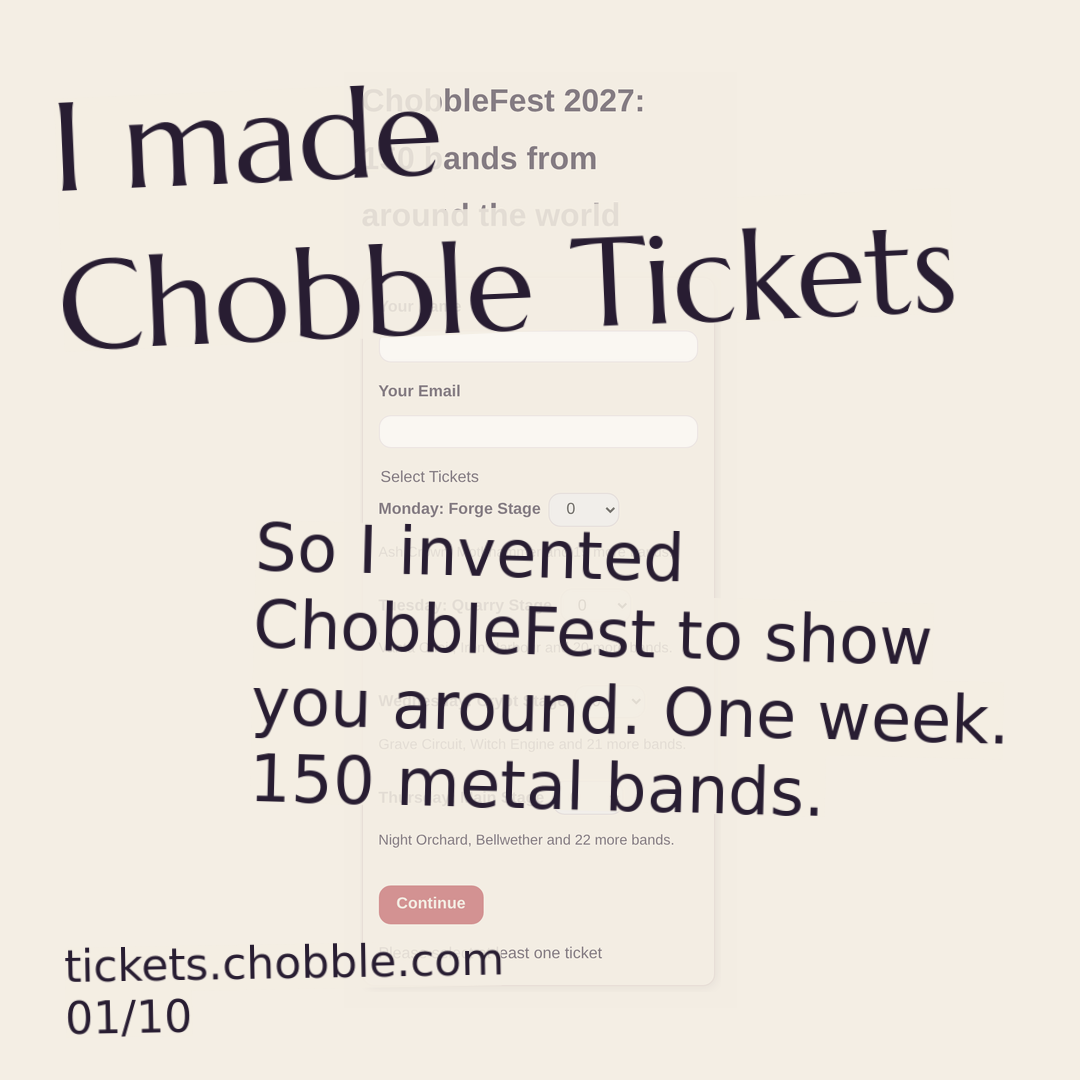
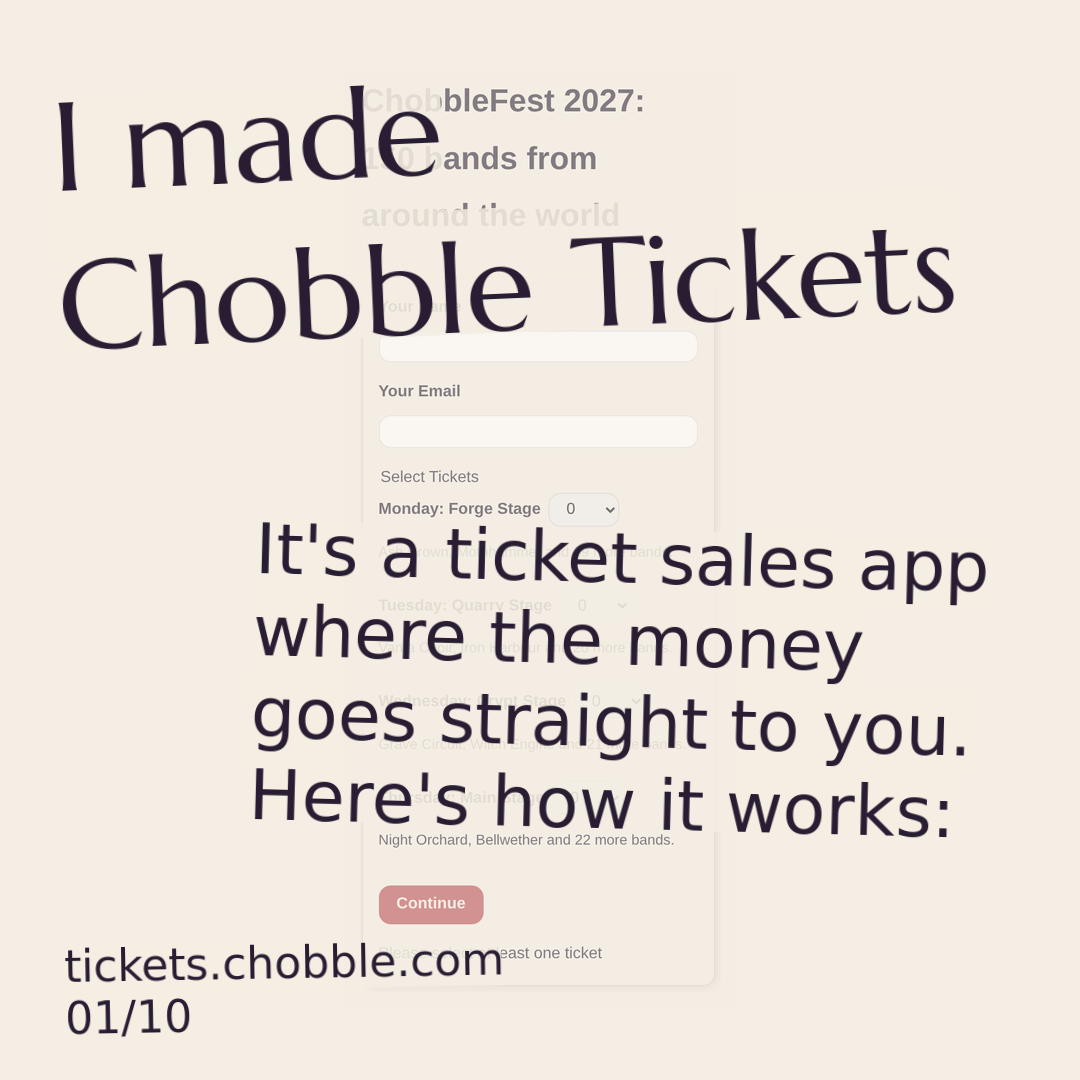
Better images

Changed region(s): [[0.2139, 0.4583, 0.9167, 0.7944]]

diff --git a/scripts/chobblefest-slides.js b/scripts/chobblefest-slides.js
@@ -1,28 +1,28 @@
 export const CHOBBLEFEST_SLIDES = [
   {
-    body: "So I invented ChobbleFest to show you around. One week. 150 metal bands.",
+    body: "It's a ticket sales app where the money goes straight to you. Here's how it works:",
     heading: "I made Chobble Tickets",
     palette: ["#f4eee4", "#281d32", "#b8474f", "#7e5367"],
     slug: "welcome",
     source: "chobblefest-welcome",
   },
   {
-    body: "Every day, stage and pass gets its own listing. I can group all 150 bands without losing track.",
-    heading: "Build the whole week",
+    body: "Every day, stage, pass, whatever, gets its own listing. You can group listings however suits your ops.",
+    heading: "Set up your events",
     palette: ["#252630", "#f5eee6", "#d47a58", "#aaa2b6"],
     slug: "programme",
     source: "chobblefest-programme",
   },
   {
-    body: "Day passes. Week passes. Camping. Extras. Visitors can buy it all in one checkout.",
-    heading: "Sell the right tickets",
+    body: "Visitors can buy day passes, week passes, camping, extras, etc - all in one checkout.",
+    heading: "Sell them together (or not)",
     palette: ["#e8dfca", "#2c352e", "#a4473e", "#66745e"],
     slug: "checkout",
     source: "chobblefest-checkout",
   },
   {
-    body: "Each day has its own limit. I can see bookings and places left in one calendar.",
-    heading: "Keep an eye on capacity",
+    body: "Each day can have its own limit. See bookings and places left in your admin calendar.",
+    heading: "Limit capacity automatically",
     palette: ["#182f32", "#f2eadb", "#d69b5c", "#9db7ad"],
     slug: "capacity",
     source: "chobblefest-capacity",
@@ -35,15 +35,15 @@ export const CHOBBLEFEST_SLIDES = [
     source: "chobblefest-payments",
   },
   {
-    body: "Gate staff, editors and managers get separate accounts. I decide which pages each person can open.",
+    body: "Gate staff, editors and managers get separate accounts. You decide which pages each person can open.",
     heading: "Give the crew logins",
     palette: ["#312a25", "#f4ead8", "#cb7f3c", "#b9a88f"],
     slug: "crew",
     source: "chobblefest-crew",
   },
   {
-    body: "A stage changed. Rain is coming. I can message one ticket holder, one day or everybody.",
-    heading: "Email the right crowd",
+    body: "A stage changed. Rain is coming. You can message one ticket holder, one day or everybody.",
+    heading: "Email your attendees",
     palette: ["#e2e7de", "#24322e", "#3c7b70", "#667a72"],
     slug: "email",
     source: "chobblefest-email",
@@ -56,15 +56,15 @@ export const CHOBBLEFEST_SLIDES = [
     source: "chobblefest-check-in",
   },
   {
-    body: "Dark pages. My colours. My domain. Ticket buyers see ChobbleFest, not somebody else's marketplace.",
-    heading: "Make it look the part",
+    body: "Custom CSS themes, your own domain, your branding - buyers see your details, not someone else's marketplace",
+    heading: "Make the site yours",
     palette: ["#eee0c8", "#302720", "#a65c35", "#7d6857"],
     slug: "identity",
     source: "chobblefest-identity",
   },
   {
-    body: "I can export the festival setup and import it somewhere else. I can host the same software myself. I built it that way on purpose.",
-    heading: "Keep the whole thing",
+    body: "Fully open source so you can host or modify it without paying any licence fees. Or pay me £5/month for hosting at:",
+    heading: "Take it away and change it",
     palette: ["#dfe4e8", "#222c38", "#486c91", "#687688"],
     slug: "portable",
     source: "chobblefest-portable",
